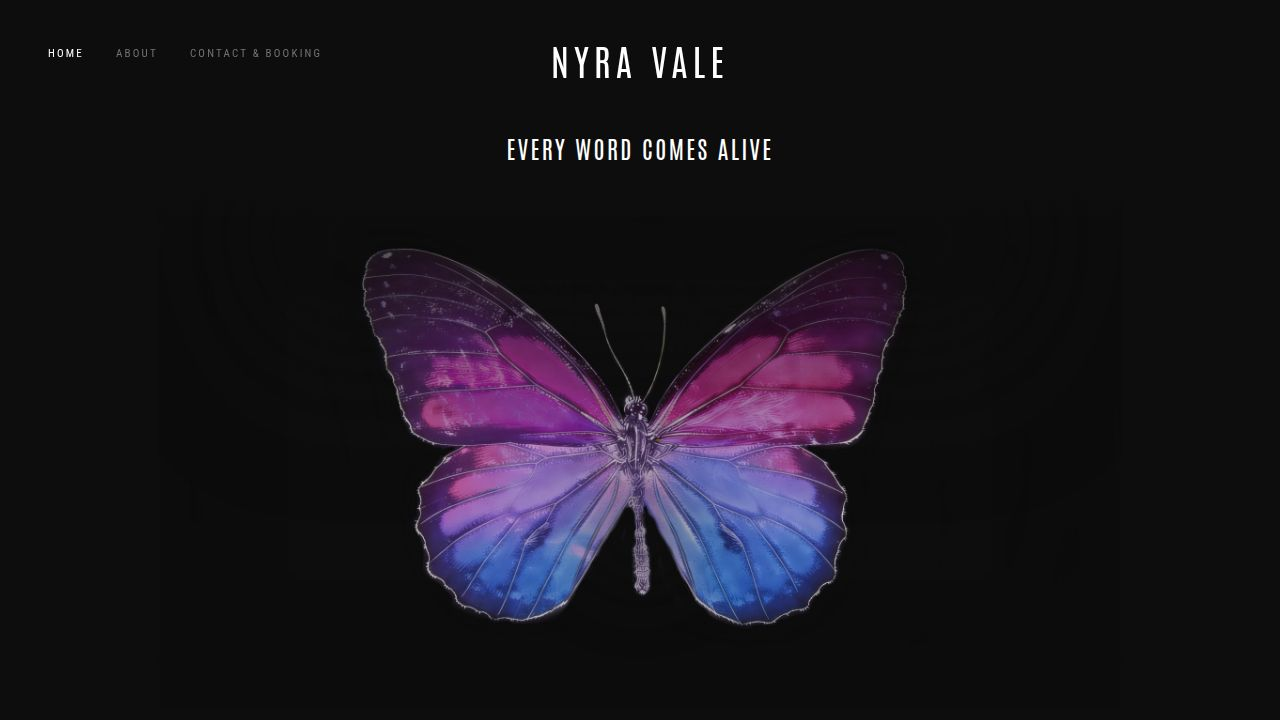
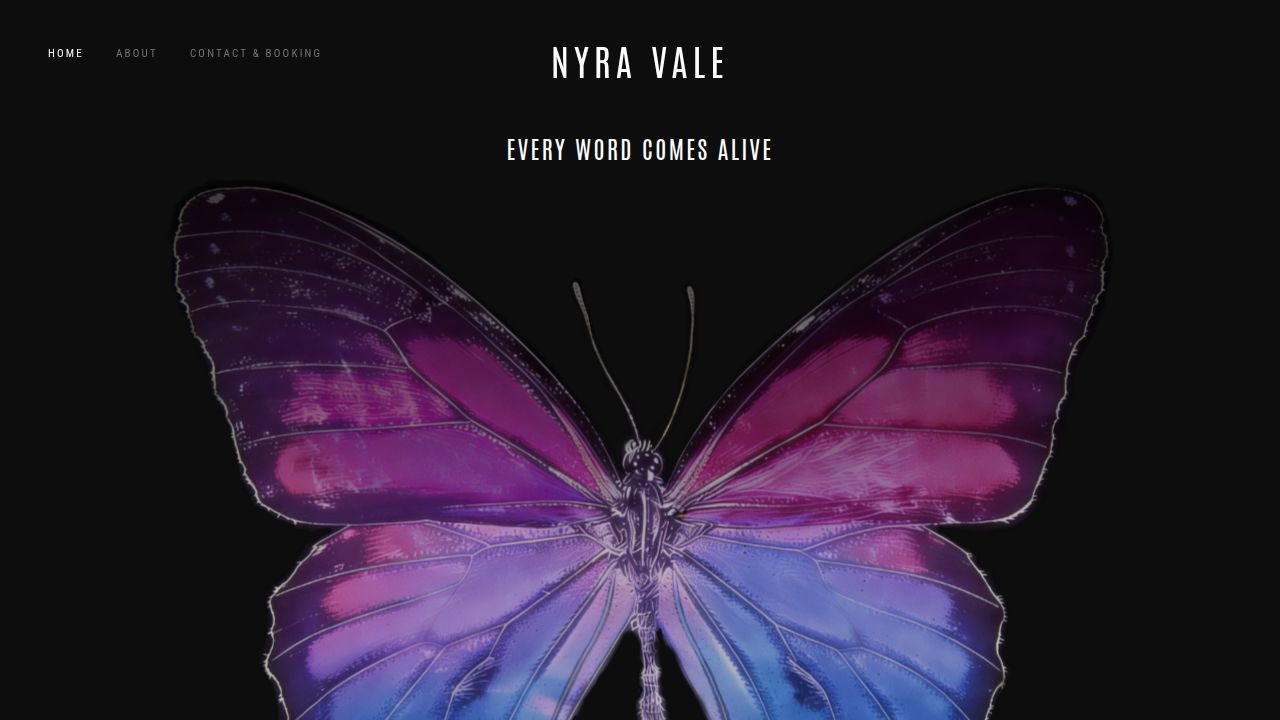
Update butterfly image and remove visual effects
Replaced the main butterfly image with a new version and removed overlay effects from the previous iteration.

Replit-Commit-Author: Agent
Replit-Commit-Session-Id: 9119b3c9-1be0-4b90-be5f-4468bb436813
Replit-Commit-Checkpoint-Type: full_checkpoint
Replit-Commit-Event-Id: f817b2f5-3152-4624-9fb3-f5ec65d76137
Replit-Commit-Screenshot-Url: https://storage.googleapis.com/screenshot-production-us-central1/acc114d5-8ff7-4aa1-90f1-90320e5e6cb7/9119b3c9-1be0-4b90-be5f-4468bb436813/1Z8mSc8
Replit-Helium-Checkpoint-Created: true

diff --git a/client/src/pages/home.tsx b/client/src/pages/home.tsx
@@ -2,7 +2,7 @@ import { Navbar } from "@/components/layout/Navbar";
 import { motion } from "framer-motion";
 import { Play, Mic } from "lucide-react";
 import { Dialog, DialogContent, DialogTrigger } from "@/components/ui/dialog";
-import heroImage from "@/assets/home-butterfly-v5.png";
+import heroImage from "@/assets/home-butterfly-v6.png";
 import audioBg from "@/assets/audio-bg.png";
 import demoReelThumb from "@/assets/demo-reel-thumb.png";
 import characterDemoThumb from "@/assets/character-demo-thumb-v2.jpeg";
